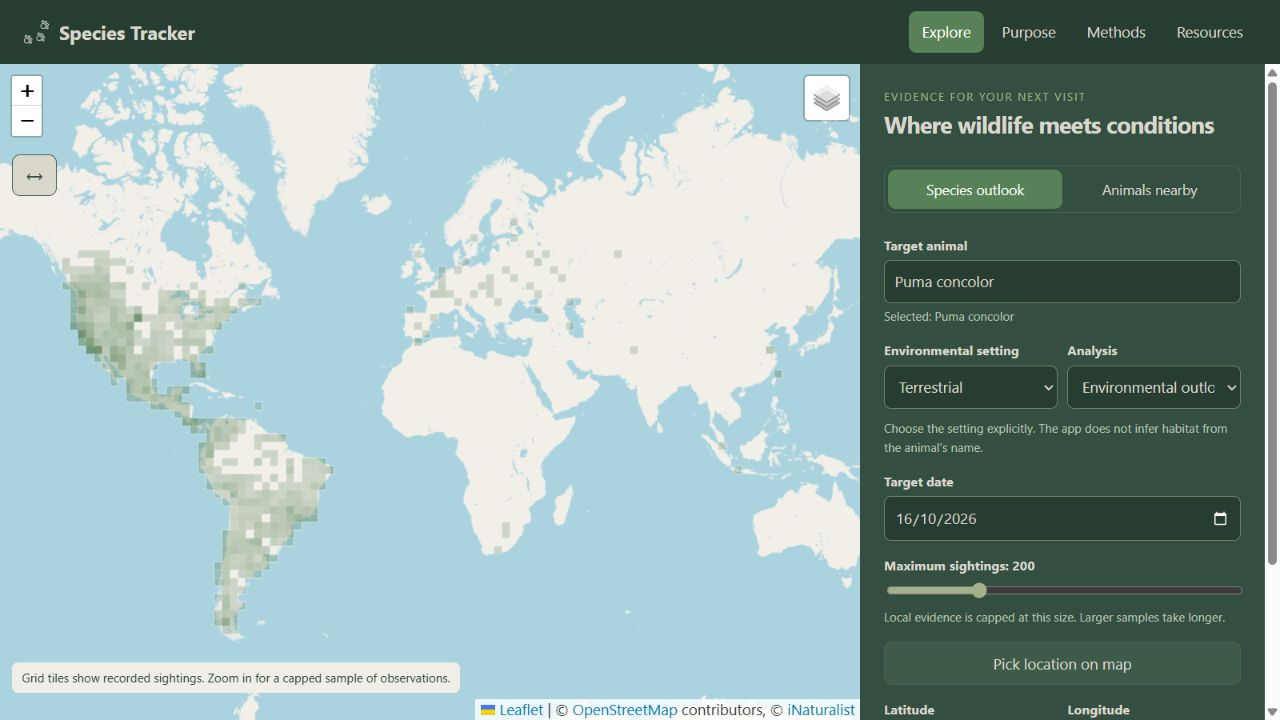
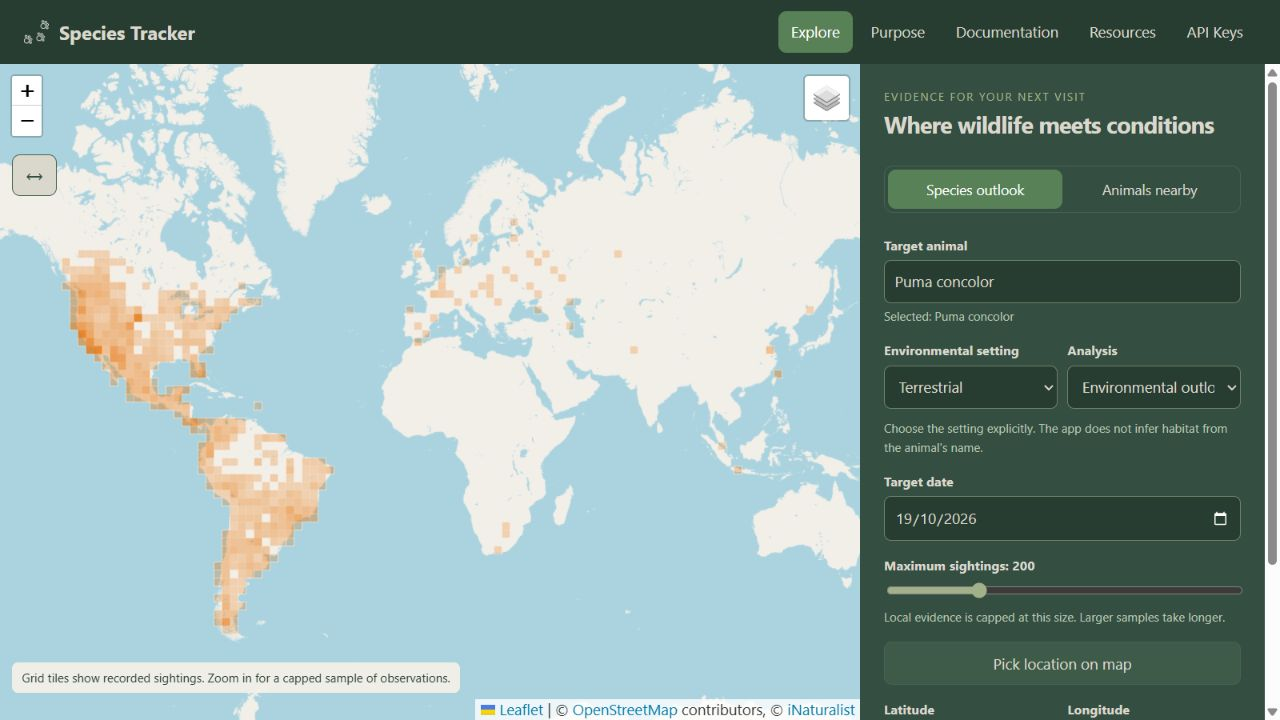
Rewrite portfolio README with clear setup, analysis explanations, and examples

diff --git a/README.md b/README.md
@@ -1,12 +1,38 @@
 # Species Tracker
 
-A focused wildlife visit planner: discover seasonal animals in a drawn area, examine environmental evidence for one species, and compare supported upcoming days. Marine and terrestrial settings are explicit.
+**Plan a wildlife visit with evidence.**
 
-Results describe **historical recording frequency and relative modeled favorability**, never calibrated encounter probabilities. More observations can reflect observer effort, accessibility, or detectability rather than more animals.
+Species Tracker connects a place and a date with recorded wildlife sightings and environmental conditions. Discover animals recorded in an area, examine conditions for a selected species, and compare supported upcoming days—all from an interactive map.
+
+It is a focused portfolio project combining geographic analysis, public data ingestion, statistical modeling, and a web interface. Its purpose is to help you decide **what to look for, where to investigate, and when conditions look relatively favorable**.
+
+![Species Tracker: wildlife map and species analysis controls](docs/screenshots/desktop.jpg)
+
+*Current desktop interface. The orange grid shows recorded observations; it is not an animal-density or encounter-probability map.*
+
+> Results describe historical recording frequency and relative modeled conditions. They are **not calibrated probabilities of seeing an animal**.
+
+[Run locally](#run-locally) · [How the analyses work](#how-the-analyses-work) · [Examples](#examples) · [Evidence and limitations](#evidence-and-limitations) · [Development](#development)
+
+## What can I do with it?
+
+| Your question | App workflow | What you get |
+| --- | --- | --- |
+| What animals could I look for here? | **Animals nearby** | Up to ten species ranked by historical sightings inside a polygon during the selected month. |
+| How do conditions look for one animal? | **Species outlook** | A historical sightings profile, an environmental outlook, or Random Forest variable importance. |
+| Which upcoming day looks most favorable? | **When should I go?** | A comparison of supported days using the same local model, when validation supports ranking. |
+
+Search by common or scientific name, select an explicit Terrestrial or Marine setting, and inspect the evidence behind each result. The browser remembers your last species and environmental setting and can resume an active task after refresh in the same tab.
 
 ## Run locally
 
-Use Python **3.12**. From the project root on Windows PowerShell:
+Open a terminal in the **project root**, the folder containing this README. Choose either Python or Docker; both serve the app at **[http://127.0.0.1:8000/](http://127.0.0.1:8000/)** and use the same port.
+
+**No API key is required to explore sightings or run the statistical analyses.** Gemini explanations are optional. There is no database to configure and no frontend build step.
+
+### Option 1: Python on Windows
+
+You need **Python 3.12**. Check with `python --version`, then run these commands in PowerShell:
 
 ```powershell
 python -m venv .venv
@@ -14,84 +40,222 @@ python -m venv .venv
 .\.venv\Scripts\python.exe -m uvicorn main:app --app-dir backend --host 127.0.0.1 --port 8000
 ```
 
-On macOS/Linux, use `.venv/bin/python` instead. Open http://127.0.0.1:8000/.
+Open the address above once the terminal reports that Uvicorn is running. Keep that terminal open while using the app; press **Ctrl+C** to stop it.
 
-No credentials are required for core discovery and analysis. For optional AI summaries, copy `.env.example` to `.env` and set `GEMINI_KEY` locally. The root `.env` loads on startup; process environment variables override it. Restart after changing configuration. Never commit `.env`.
+**Already installed?** Next time, run only:
 
-The **API Keys** tab lets each visitor apply a personal Gemini key and rerun their last species analysis immediately. The key overrides the server default only for their submitted requests. It stays in page memory (cleared by refresh/closing the tab), travels in the `X-Gemini-Key` header to the backend, and is passed explicitly to the Google SDK. It is not written to browser storage, task results, model caches, or `.env`. Use HTTPS outside localhost; do not log request headers in your hosting proxy. Removing a personal key restores the server default for future requests; queued jobs keep their original key. Google validates key permissions/quota during summary generation; failure preserves statistical results. iNaturalist and Open-Meteo need no user keys in this release.
+```powershell
+.\.venv\Scripts\python.exe -m uvicorn main:app --app-dir backend --host 127.0.0.1 --port 8000
+```
 
-## Run with Docker
+These are the Python commands used for local verification on Windows; calling the virtual environment directly avoids activation and PowerShell execution-policy setup.
+
+<details>
+<summary>Equivalent commands for macOS/Linux</summary>
+
+Use a Python 3.12 interpreter as `python3`:
+
+```sh
+python3 -m venv .venv
+.venv/bin/python -m pip install -r backend/requirements-lock.txt
+.venv/bin/python -m uvicorn main:app --app-dir backend --host 127.0.0.1 --port 8000
+```
+
+The direct macOS/Linux commands are provided as equivalents. The Linux/Python 3.12 container was tested separately; see the verification record below.
+
+</details>
+
+### Option 2: Docker
+
+Start Docker Desktop/Engine first. Use a current Docker Compose version supporting optional `env_file` entries.
 
 ```sh
 docker compose up --build -d
+```
+
+Open **[http://127.0.0.1:8000/](http://127.0.0.1:8000/)**. To stop the app later:
+
+```sh
 docker compose down
 ```
 
-Docker Desktop/Engine must be running. A recent Docker Compose supports optional `env_file`. Images build without `.env`; credentials are injected at runtime and excluded from the build context. The image runs as an unprivileged user with one Uvicorn worker. Compose binds localhost by default. Public hosting should use HTTPS through a reverse proxy with a request/body-size limit.
+The image builds without a real `.env` file and runs as a non-root user. If a root `.env` exists, Compose supplies its values at runtime. Python startup, Docker build/startup, and browser workflows have been exercised locally; [validation.md](docs/validation.md) records the dates and limitations.
 
-## Three workflows
+### Optional AI explanations
 
-1. **Animals nearby:** draw 3–100 vertices, click the first point or press Enter to close, choose a date and animal group, then find up to ten species. Escape cancels drawing without deleting the last completed area. Use Clear area to remove it.
-2. **Species outlook:** select a resolved animal from autocomplete, explicitly choose Terrestrial or Marine, then choose a point/date and examine evidence. Coordinates are also available for keyboard users. Historical Profile shows monthly sightings; Key Factors displays Random Forest importance.
-3. **When should I go?:** after an environmental logistic analysis with a usable model, compare up to seven supported days using that same model. Ranking is withheld if independent validation does not beat the seasonal baseline or conditions fall outside the training range.
+The statistical methods work independently of AI. To add Gemini explanations, use either of these options:
 
-The browser remembers the last selected species and environmental setting. An active job resumes after refresh in the same browser tab. Server restarts remove in-memory jobs; the UI explains how to restart the request.
+- **Personal key:** open **API Keys**, paste a Gemini key, and select **Apply key & rerun last analysis**. It reruns your last submitted species analysis with the same settings. With no previous analysis, apply the key first, then run one in Explore. No server restart is needed.
+- **Server default:** for first-time setup, copy `.env.example` to a root `.env` and fill in `GEMINI_KEY`. If `.env` already exists, edit it rather than replacing it. Restart the Python server, or recreate the Compose container with `docker compose up -d --force-recreate`.
 
-## Evidence contracts
+A personal key stays only in the page's memory and is cleared on refresh or when the tab closes. It is sent to the app backend and used with Google for that job; it is not written to `.env`, browser storage, or model caches. Your Google project's quota/charges apply. AI failure keeps the statistical result and a deterministic explanation available.
 
-- Sightings: iNaturalist research-grade, georeferenced, non-captive observations over the preceding ten years ending yesterday. Discovery fetches complete bounding-box records and applies exact server-side polygon filtering, including edges. Above `DISCOVERY_CAP` (default 5,000), it requests a smaller area instead of ranking an incomplete dataset.
-- Ranking: sightings, then distinct observation dates, then taxon ID. Subspecies consolidate under species. Unresolved higher taxa are excluded. The selected **month**, not the particular day, determines historical ranking. Weather is separate context at a point inside the polygon.
-- Local analysis: a geodesic circle starts at 5 km and expands to at most 50 km. The latest up-to-200 sightings are used by default (100–500 permitted). Capped samples and unusable records are disclosed. Seeded background samples remain within the same study circle; they are not confirmed absences.
-- Terrestrial: daily mean air temperature/wind, daily total precipitation, cyclic month sine/cosine. Marine: daily mean SST/wind/waves/currents plus cyclic seasonality. Historical and forecast values share the same hourly-to-daily UTC aggregation; all 24 hours are required. No air-temperature SST proxy or forecast imputation is used. Logistic regression retains complete historical records only. Random Forest uses training-only proximity imputation for eligible partial historical records (details below).
-- Coverage: historical marine SST/current requests start January 2022; archived weather has a five-day guard for publication lag. Forecast requests use a conservative window and require complete returned values. Unsupported dates show historical profiles without synthetic weather. Data resolution and coastal cells can limit interpretation.
-- Validation: 0.1-degree latitude/longitude cells are held together (physical width varies with latitude); a separate chronological holdout evaluates later dates where viable. Both compare with a cyclic seasonality-only model on identical splits. All results remain presence/background classifiers, even when holdout diagnostics are good. Environmental predictors must vary, values must be finite, and enough records from both classes must exist.
-- AI: the supported Google Gen AI SDK summarizes structured evidence, with a request timeout and deterministic fallback. Exact locations and source records are not sent to the AI. The evidence and warnings remain authoritative.
+### If something does not start
 
-## Random Forest proximity imputation
+| Symptom | What to check |
+| --- | --- |
+| Port 8000 is already in use | Stop the existing Python server or Compose service before starting another copy. |
+| `No module named uvicorn` | Install the pinned requirements using the same `.venv` interpreter as the run command. |
+| Docker cannot connect | Start Docker Desktop/Engine before running Compose. |
+| The page still looks old | Reload with **Ctrl+F5** to refresh cached frontend assets. |
+| Sightings/weather are unavailable | Check the result's source error. External maintenance and request limits can prevent an analysis; a missing result does not mean animals are absent. |
 
-Key Factors defaults to proximity-based historical imputation. Records missing more than half their environmental predictors, invalid coordinates/dates, or known unsupported dates are excluded; marine records need at least one observed marine variable. Each training predictor needs 15 original observed donors, two distinct values, and no more than 50% missingness. The existing 40-record/15-per-class minimum still applies after exclusions.
+## How the analyses work
 
-Missing cells are initialized with training medians, then updated for five iterations using 200-tree, depth-8 forests with minimum leaf size 3 and seed 42. Proximity is the fraction of shared terminal leaves. Each estimate is a proximity-weighted mean of originally observed values of that predictor, never previous estimates. Unresolved records are removed and training imputation restarts without them as donors (at most five restarts); failure to stabilize returns insufficient evidence. Median initialization is not a fallback result. Processing is capped at 1,000 records, accumulating one tree at a time rather than a three-dimensional proximity tensor.
+Two methods summarize observations. Two fit statistical models. The day comparison reuses an existing model rather than introducing another one.
 
-Spatial and chronological splits happen before donor/median/forest fitting. Held-out records transform independently using only original training donors and a fixed fitted training forest. The seasonal baseline uses exactly the same retained records. Final model metadata includes imputation parameters, donor counts, observed/estimated cell counts, complete/imputed record counts, exclusions, and original per-record masks and estimates. Evidence and importance bars identify estimated inputs. AI receives aggregate imputation diagnostics without source IDs or record values. Cached artifacts omit target dates and credentials; model version 2.2.0 separates these results from earlier models.
+| Method | Main purpose | Fits an environmental model? |
+| --- | --- | --- |
+| Historical Profile | Explore when sightings were recorded. | No |
+| Environmental Outlook | Compare forecast conditions with local sighting/background conditions. | Yes—logistic regression |
+| Key Factors | Examine which predictors help distinguish sighting/background conditions. | Yes—Random Forest |
+| Animals Nearby | Find the most recorded species in an area during a season. | No |
+| When should I go? | Compare eligible upcoming days. | Reuses the logistic model |
 
-This retains partial evidence without claiming better accuracy or eliminating missingness bias. Logistic regression and unavailable forecasts keep their previous policies. Run the reproducible masked-data experiment with `.venv/Scripts/python.exe scripts/imputation_benchmark.py`; it compares held-out reconstruction MAE against training-median filling on explicitly synthetic data.
+### Historical Profile: recorded seasonality
 
-## API
+Counts retrieved sightings for each calendar month across the available years and lists the years represented. There is no classifier and no weather model.
 
-- `POST /api/analysis/run`: resolved `species`, positive `taxon_id`, `environment` (`terrestrial`/`marine`), `target_lat`, `target_lng`, ISO `target_date`; optional `method` (`glm`/`rf`/`rustic`), `operation` (`single_day`/`compare_days`), `limit` (100–500), and `radius_km` (5–50).
-- `POST /api/discovery/run`: validated GeoJSON `polygon`, ISO `target_date`, optional `animal_group` (default `all`). No holes, self-intersections, antimeridian crossing, or more than 100 vertices.
-- Species requests may include an optional `X-Gemini-Key` header for a request-scoped AI summary override. Invalid formats are rejected before queueing without reflecting the key.
-- Both return `task_id`. Poll `GET /api/analysis/status/{task_id}`; fetch `GET /api/analysis/results/{task_id}` on completion.
-- Job states: queued, running, complete, failed, expired. Incomplete results return 202, expired results 410, missing jobs 404, and busy queues 429. Two jobs run concurrently, eight can wait, results remain for 24 hours; a one-hour expiry tombstone permits recovery messaging. Retained task count is bounded.
-- `GET /api/observations` returns a disclosed 100-record map sample. `POST /api/observations/within` returns exact polygon-filtered records from a disclosed 200-record sample for the requested species.
-- Interactive API schemas: `/docs`. Same-origin by default; additional CORS origins must be explicitly set in `ALLOWED_ORIGINS`.
+**Example:** 40 July records and 10 January records mean more July sightings were recorded in this sample. They do not establish that four times as many animals were present or that a July visit is four times more likely to succeed. Observer activity and the local sample cap affect the counts.
 
-The shared gateway bounds upstream concurrency, enforces per-service rolling request and daily budgets, uses timeouts, and retries transient network/server failures at most twice. Quota errors stop the request. Completed discovery evidence is cached for 24 hours; trained local models for one hour.
+### Environmental Outlook: logistic regression
 
-## Verification
+The model compares **sightings** with generated **background samples** inside the same study circle. Backgrounds represent available conditions; they are not confirmed animal absences.
+
+Logistic regression learns an additive relationship between environmental predictors, seasonality, and the sighting/background labels. Predictors are standardized using training statistics. Regularization discourages excessively large coefficients to reduce overfitting.
+
+Its 0–1 score describes this constructed classification task, not encounter probability. When validation permits an assessment, the app compares the forecast score with the final training sample's lower and upper quartiles to describe conditions as **less favorable**, **typical**, or **more favorable**.
+
+Incomplete historical records are excluded for this method. Missing forecasts or conditions outside the observed training ranges withhold a reliable favorability assessment. Dates outside the supported forecast window show the historical profile with weather unavailable.
+
+### Key Factors: Random Forest
+
+A forest combines **200 decision trees**. Each tree makes a sequence of threshold decisions; together they can capture nonlinear patterns and interactions that the additive logistic model does not explicitly represent.
+
+The importance bars show how much each predictor's splits reduce class impurity across the forest. **A 30% importance bar is not a 30% encounter chance.** Importance does not reveal the direction of an effect or prove causation, and correlated predictors can share or obscure importance.
+
+Random Forest retains eligible incomplete historical records through **proximity imputation**:
+
+1. Initialize missing cells with training medians.
+2. Fit a forest and measure how often pairs of records reach the same terminal leaf.
+3. Estimate missing values using proximity-weighted means of originally observed donor values.
+4. Repeat for five iterations, preserving measured values throughout.
+
+Imputation is fitted separately inside each validation split. Held-out records use only training donors, without their labels or other held-out records influencing the estimates. Records without supported donors are excluded; median initialization is never silently accepted as the final fallback.
+
+The result distinguishes complete, imputed, and excluded records. This method describes historical associations; it does not forecast your selected day's encounter.
+
+![Synthetic marine Random Forest example showing imputation counts and variable importance](docs/screenshots/random-forest.jpg)
+
+*Offline acceptance example: 205 complete records and 35 retained through imputation. These are artificial test records, not evidence about a real species.*
+
+<details>
+<summary>Model settings and imputation safeguards</summary>
+
+- Logistic regression: standardized predictors, L2 regularization with `C=1`, and up to 1,000 optimizer iterations.
+- Random Forest: 200 trees, maximum depth 8, minimum leaf size 3, seed 42.
+- Models require at least 40 usable records overall, including 15 sightings and 15 backgrounds; validation splits have additional sample/class requirements.
+- Random Forest excludes invalid locations/dates, known unsupported dates, and records missing more than half their environmental predictors. Marine records need at least one observed marine predictor.
+- Each imputation training predictor needs 15 original observed donors, two distinct values, and at most 50% missingness. Unresolved rows are removed; at most five restarts are allowed before reporting insufficient evidence. Processing is capped at 1,000 sighting/background records.
+- No coefficient p-values, confidence intervals, or encounter-probability calibration are produced. The app's **Documentation** tab explains formulas, validation splits, and limitations in more detail.
+
+</details>
+
+### Animals Nearby: seasonal Top 10
+
+Fetches eligible wild-animal observations for the selected month over the preceding ten years, ending yesterday. It filters the polygon exactly, includes boundary points, combines subspecies under species, and ranks by observation count, distinct observation dates, then taxon ID.
+
+**Example:** two dates in October use the same historical seasonal evidence for the same area and evidence snapshot. The day's weather is shown separately and does not change the ranking.
+
+This is not ten environmental models. If fewer species have evidence, fewer than ten appear. Queries exceeding the configurable 5,000-record bounding-box cap—or interrupted pagination—fail explicitly rather than showing an incomplete ranking as complete.
+
+![Synthetic discovery example showing a polygon and seasonal species evidence](docs/screenshots/discovery.jpg)
+
+*Offline acceptance example. The polygon, species names, and sightings are test fixtures; they demonstrate the workflow rather than a real animal distribution.*
+
+### When should I go?: compare supported days
+
+After an Environmental Outlook produces a usable model, this action reuses it across the next seven days starting today. Species, study circle, model, and environmental setting stay fixed.
+
+A ranking requires both validation checks to beat the seasonal baseline, at least two complete days inside the environmental training ranges, and differing scores. Unsupported days are excluded. Otherwise, the app shows conditions and explains why a reliable ranking is unavailable.
+
+“Saturday has the most favorable modeled conditions” means it ranks highest **among those eligible days**, not that differences are statistically significant or sightings are guaranteed.
+
+### Terrestrial and Marine are different settings
+
+| Setting | Environmental predictors |
+| --- | --- |
+| **Terrestrial** | Air temperature (°C), wind speed (km/h), precipitation (mm/day). |
+| **Marine** | Sea surface temperature (°C), wind speed (km/h), wave height (m), ocean current velocity (km/h). |
+
+Both include month sine/cosine features, keeping December adjacent to January. Environmental values use daily UTC means, except precipitation, which is a daily total. A daily value requires all 24 valid hourly measurements.
+
+**The setting changes the data and predictors used to fit the model.** It does not infer habitat from the species name, filter observations into land/sea habitats, or change Historical Profile counts or Animals Nearby rankings. Choose the environment you want to study explicitly.
+
+### How do we check whether a model is useful?
+
+- **Spatial holdout:** evaluate on geographic cells withheld from training. Records in the same 0.1-degree latitude/longitude cell stay together across dates; physical cell width varies with latitude.
+- **Chronological holdout:** train on earlier dates and evaluate on later dates, keeping same-date records together.
+- **Seasonal baseline:** compare both models with a logistic classifier using only cyclic month features on the same retained records.
+
+| Diagnostic | Meaning |
+| --- | --- |
+| **ROC AUC** | How well scores order sightings above backgrounds. Around 0.5 is chance-level ordering. |
+| **Balanced accuracy** | The average recall of the two classes, using a score threshold of 0.5. It gives both classes equal weight. |
+
+For an environmental assessment or day ranking, each holdout must have higher AUC than the seasonal baseline and balanced accuracy at least as high. If either holdout cannot be evaluated, the result is marked experimental. These are classifier diagnostics on single holdouts, not field-visit success rates or statistical significance tests.
+
+## Examples
+
+Try these public study locations after starting the app. Select the resolved autocomplete result, choose the setting, enter the coordinates, and use today's date. Start with Historical Profile to inspect recorded evidence, then try Environmental Outlook or Key Factors.
+
+| Example | Species | Setting | Latitude | Longitude |
+| --- | --- | --- | ---: | ---: |
+| San Juan / southern Salish Sea region | *Orcinus orca* | Marine | 48.5 | -123.1 |
+| San Francisco Peninsula region | *Puma concolor* | Terrestrial | 37.4 | -122.2 |
+
+Use a sample cap of 100 for the walkthrough. The study radius starts at 5 km and can expand to 50 km. A result reporting insufficient evidence or withholding a ranking is a valid outcome.
+
+**Live validation status:** the saved 2026-10-16 walkthrough attempts were blocked by iNaturalist maintenance. They contain no real ecological validation scores. Successful screenshots and masked-data experiments are explicitly synthetic where applicable; do not interpret them as validated orca or puma predictions.
+
+For reproducible demonstrations without sightings/weather API calls:
 
 ```powershell
-.\.venv\Scripts\python.exe -m pytest -q
-node --test tests/*.test.mjs
-npm run check
-docker compose config --quiet
-docker build -t species-tracker:check .
+.\.venv\Scripts\python.exe scripts/browser_fixture_server.py --ack-synthetic
 ```
 
-Node.js 20+ is needed only for frontend tests; no npm dependencies or frontend build step are required. GitLab CI runs backend/frontend checks and a Docker build/startup check. The Docker job requires a runner supporting privileged Docker-in-Docker.
+Open **[http://127.0.0.1:8002/fixture](http://127.0.0.1:8002/fixture)**. Search `Fixture`, select the result, enter `0.4, 0.4`, and run an analysis. For discovery, draw around the visible fixture observations. The page prominently labels its synthetic data. This is a test server, not an offline biodiversity database; map tiles and frontend CDN assets still need internet access.
 
-See [portfolio cases](docs/portfolio-cases.md) for marine and terrestrial walkthroughs and reproducible source evidence. The backend tests mock external APIs; live cases are separate and never run in ordinary CI. Tests cover geometry, full-query discovery, source feature contracts, model validation, queue limits, refresh recovery, selected identity, and safe rendering. Keep tests tied to these behavioral contracts; avoid assertions about retired UI labels or one-off release artifacts. The Docker CI startup check covers the health endpoint, so the backend suite does not duplicate that smoke check.
+See [portfolio walkthroughs](docs/portfolio-cases.md) for live/synthetic reproduction commands and [validation evidence](docs/validation.md) for the masked-data comparison against median filling. The saved synthetic experiment had lower reconstruction error with proximity imputation; this does not guarantee improvement on real or differently missing data.
 
-## Project layout
+## Evidence and limitations
 
-- `backend/analysis/`: feature definitions, WGS84 geometry, ingestion, classifiers, prediction, discovery, and optional summaries.
-- `backend/main.py`, `jobs.py`, `upstream.py`: validation/routing, bounded jobs, and upstream budgets.
-- `frontend/`: plain JavaScript modules, Leaflet map/tools, accessible controls, and safe result rendering.
-- `backend/tests/`, `tests/`: analytical/API and frontend workflow regression tests.
+- Observations come from iNaturalist: research-grade, georeferenced, non-captive records for analysis/discovery. Recording frequency reflects observer effort, accessibility, and identification as well as wildlife occurrence.
+- Species analyses use a capped local sample: 200 sightings by default, adjustable from 100 to 500. Historical monthly counts may therefore be incomplete. The zoomed-in map is also a disclosed capped sample, not a complete survey.
+- Marine SST/current history is requested only from January 2022 onward. Archived weather has a five-day publication guard; coastal coverage and data resolution can limit interpretation.
+- Background samples are not absences. Proximity estimates are not measurements. Imputation, grouping, and validation do not eliminate sampling bias or spatial dependence.
+- Geometry, source dates/IDs, missingness, exclusions, model version, and diagnostics are exposed with the results. Expand the technical evidence to inspect them.
+- Jobs run in server memory: two active, eight queued, with completed results retained for 24 hours. A server restart removes tasks; the UI explains when a request must be rerun.
 
-The old CCA approximation, habitat-envelope score, OBIS pipeline, and unrelated future-platform scaffolding have been retired. This release intentionally stays focused on wildlife visit planning.
+The project stays focused on wildlife visit planning: no accounts, tracking telemetry, or additional biodiversity-platform integrations are required for these workflows.
+
+## Development
+
+**Python 3.12 · FastAPI · Leaflet · scikit-learn · Shapely/PyProj · optional Google Gen AI SDK**
+
+The frontend is plain JavaScript; the backend validates requests, retrieves public data, and runs bounded background jobs. Model fitting and AI work are offloaded from the event loop. Requests share timeouts, bounded concurrency, retries, and upstream budgets.
+
+The latest recorded verification for the imputation release is **69 backend tests and 14 frontend tests**. See [dated validation evidence](docs/validation.md) for the exact checks and limitations; the Docker build/startup record is from the earlier portfolio release.
+
+- [Development and API reference](docs/development.md): architecture, configuration, endpoints, tests, and deployment notes.
+- [Portfolio walkthroughs](docs/portfolio-cases.md): reproduce marine, terrestrial, and synthetic cases.
+- [Validation evidence](docs/validation.md): test runs, source limitations, and measured imputation results.
+- [Pinned Python dependencies](backend/requirements-lock.txt) and [GitLab CI](.gitlab-ci.yml).
 
 ## Sources and credits
 
-[iNaturalist API](https://api.inaturalist.org/v1/docs/), [Open-Meteo Weather](https://open-meteo.com/en/docs), [Open-Meteo Marine](https://open-meteo.com/en/docs/marine-weather-api). Observation images remain remote and retain contributor attribution and licenses. Basemaps: OpenStreetMap contributors and Esri World Imagery. Track icon by Made by Made through Flaticon. The in-app Resources page lists all runtime libraries and their documentation.
+Sightings and taxonomy: [iNaturalist](https://api.inaturalist.org/v1/docs/). Environmental data: [Open-Meteo Weather](https://open-meteo.com/en/docs) and [Open-Meteo Marine](https://open-meteo.com/en/docs/marine-weather-api). Basemaps: [OpenStreetMap contributors](https://www.openstreetmap.org/copyright) and Esri World Imagery. Observation photos retain contributor attribution and license information.
+
+Statistical references: [scikit-learn logistic regression](https://scikit-learn.org/stable/modules/linear_model.html#logistic-regression), [Random Forest importance](https://scikit-learn.org/stable/modules/ensemble.html#feature-importance-evaluation), and [randomForest proximity imputation](https://search.r-project.org/CRAN/refmans/randomForest/html/rfImpute.html). Our held-out imputation uses an explicit training-only transformation, not the R package itself.
+
+Track icon by Made by Made, via [Flaticon](https://www.flaticon.com/free-icons/dog). The in-app Resources tab links the runtime libraries and their documentation.

diff --git a/docs/development.md b/docs/development.md
@@ -1,0 +1,66 @@
+# Development and API reference
+
+For installation, workflows, and statistical explanations, start with the [README](../README.md). This page records implementation and operational details for contributors.
+
+## Architecture
+
+The Leaflet interface submits work to FastAPI. Two background workers run queued analyses; blocking model fitting and AI calls are offloaded from the event loop. iNaturalist provides sightings and taxonomy; Open-Meteo provides hourly weather/marine variables; scikit-learn fits and evaluates the classifiers. Optional Gemini explanations summarize structured evidence without controlling the analysis.
+
+Training and prediction share feature names, units, and daily UTC aggregation. Records carry source IDs and dates; seeded backgrounds stay inside the same geodesic circle. Random Forest caches include the fitted training imputer, while request credentials and target dates stay outside cached model artifacts.
+
+## API
+
+- `POST /api/analysis/run`: resolved `species`, positive `taxon_id`, `environment` (`terrestrial`/`marine`), `target_lat`, `target_lng`, ISO `target_date`; optional `method` (`glm`/`rf`/`rustic`), `operation` (`single_day`/`compare_days`), `limit` (100–500), and `radius_km` (5–50).
+- `POST /api/discovery/run`: validated GeoJSON `polygon`, ISO `target_date`, optional `animal_group` (default `all`). No holes, self-intersections, antimeridian crossing, or more than 100 vertices.
+- Species requests may include an optional `X-Gemini-Key` header for a request-scoped AI summary override. Invalid formats are rejected before queueing without reflecting the key.
+- Both return `task_id`. Poll `GET /api/analysis/status/{task_id}`; fetch `GET /api/analysis/results/{task_id}` on completion.
+- Job states: queued, running, complete, failed, expired. Incomplete results return 202, expired results 410, missing jobs 404, and busy queues 429. Two jobs run concurrently, eight can wait, results remain for 24 hours; a one-hour expiry tombstone permits recovery messaging. Retained task count is bounded.
+- `GET /api/observations` returns a disclosed 100-record map sample. `POST /api/observations/within` returns exact polygon-filtered records from a disclosed 200-record sample for the requested species.
+- Interactive API schemas: `/docs`. Same-origin by default; additional CORS origins must be explicitly set in `ALLOWED_ORIGINS`.
+
+The shared gateway bounds upstream concurrency, enforces per-service rolling request and daily budgets, uses timeouts, and retries transient network/server failures at most twice. Quota errors stop the request. Completed discovery evidence is cached for 24 hours; trained local models for one hour.
+
+## Configuration
+
+Root `.env` loading happens on startup. Existing process environment variables take precedence. Restart the Python server, or recreate the Docker container, after changing startup configuration.
+
+| Variable | Default | Purpose |
+| --- | --- | --- |
+| `GEMINI_KEY` | Empty | Optional server-default Gemini credential. |
+| `GEMINI_MODEL` | See `.env.example` | Model used for optional explanations. |
+| `ALLOWED_ORIGINS` | Empty | Explicit comma-separated additional CORS origins; same-origin access is the default. |
+| `DISCOVERY_CAP` | `5000` | Maximum complete bounding-box observation query for discovery. |
+| `UPSTREAM_DAILY_BUDGET` | `6000` | Shared daily request allowance per upstream service. |
+| `DEFAULT_ZOOM_THRESHOLD` | `6` | Value exposed in app configuration; the current frontend switches map layers at zoom 6. |
+
+Personal API keys are sent only in `X-Gemini-Key` on species-analysis submission and passed explicitly to the Google SDK. They override the server default for that job only, stay out of task results/model caches, and are released with the queued runner. Removing a key in the UI affects future submissions. HTTPS is required outside localhost for the personal-key UI; production proxies must not log credential headers.
+
+## Tests and deployment checks
+
+From the repository root after installing the pinned Python dependencies:
+
+```powershell
+.\.venv\Scripts\python.exe -m pytest -q
+node --test tests/*.test.mjs
+node --check frontend/app.js
+node --check frontend/analysis.js
+node --check frontend/tools.js
+node --check frontend/state.js
+node --check frontend/settings.js
+docker compose config --quiet
+docker build -t species-tracker:check .
+```
+
+Node.js 20+ is only needed for frontend checks. No npm dependencies or frontend build step are required. `npm test` and `npm run check` are equivalent convenience scripts when npm is available. GitLab CI repeats backend/frontend checks and Docker build/startup verification; the Docker job requires a runner supporting privileged Docker-in-Docker. See [dated validation evidence](validation.md) for what has actually been exercised.
+
+Backend tests mock external services; ordinary CI does not consume live ecological API or Gemini quotas. Keep regression tests tied to geometry, query completeness, analytical contracts, holdout isolation, queue limits, identity persistence, and safe rendering. The Docker startup check covers the health endpoint.
+
+The Docker image uses Python 3.12, a non-root user, and one Uvicorn process. Keep one application process for this in-memory task queue; adding multiple processes requires a shared task store. The Compose service binds localhost. Public deployments need HTTPS and a reverse proxy with an appropriate request/body-size limit. Images exclude `.env`; credentials are supplied at runtime.
+
+## Project layout
+
+- `backend/analysis/`: feature definitions, WGS84 geometry, ingestion, classifiers, prediction, discovery, and optional summaries.
+- `backend/main.py`, `jobs.py`, `upstream.py`: validation/routing, bounded jobs, and upstream budgets.
+- `frontend/`: plain JavaScript modules, Leaflet map/tools, accessible controls, and safe result rendering.
+- `backend/tests/`, `tests/`: analytical/API and frontend workflow regression tests.
+
